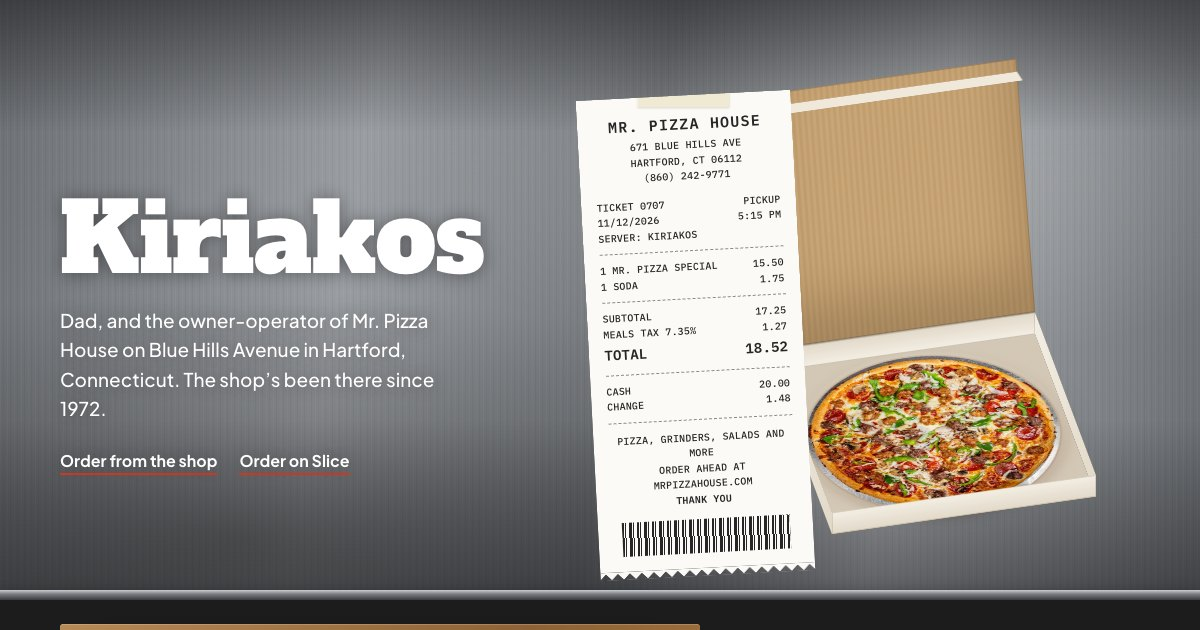
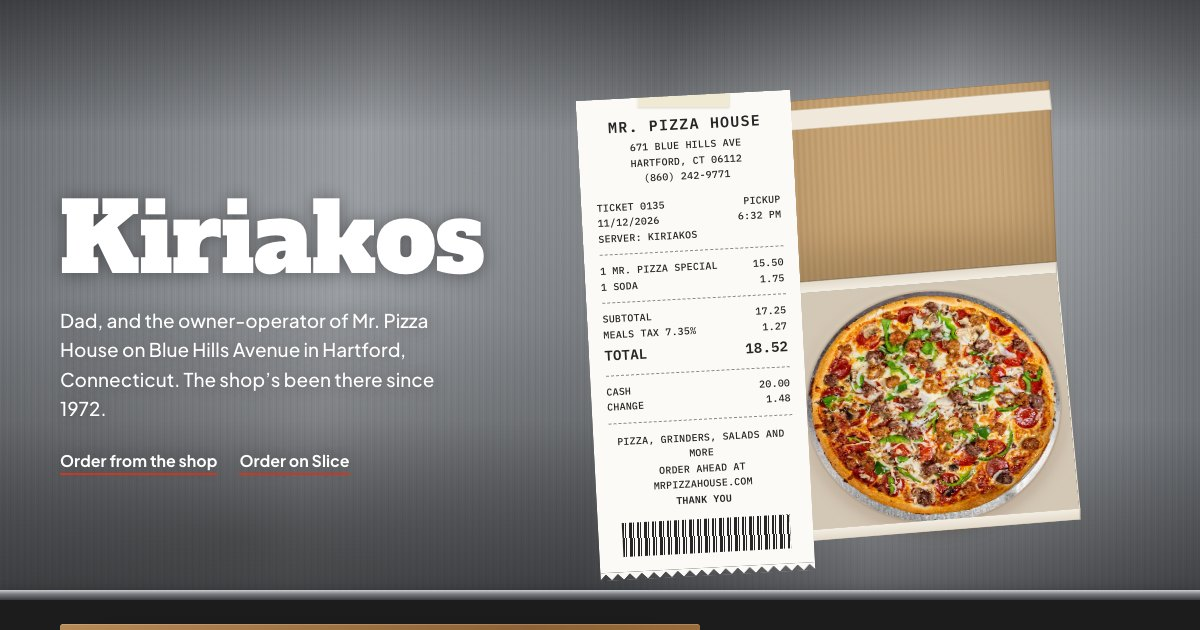
Kiriakos: the open box tips toward you, so the pizza reads the right way up

Changed region(s): [[0.6475, 0.0905, 0.925, 0.8746], [0.5242, 0.3016, 0.555, 0.3317]]

diff --git a/kiriakos/index.html b/kiriakos/index.html
@@ -12,16 +12,16 @@
   <meta property="og:description" content="Dad, and the owner-operator of Mr. Pizza House in Hartford, Connecticut." />
   <meta property="og:type" content="website" />
   <meta property="og:url" content="https://christoforakis.com/kiriakos/" />
-  <meta property="og:image" content="https://christoforakis.com/assets/og/kiriakos.jpg?v=20261114" />
+  <meta property="og:image" content="https://christoforakis.com/assets/og/kiriakos.jpg?v=20261115" />
   <meta property="og:image:width" content="1200" />
   <meta property="og:image:height" content="630" />
   <meta name="twitter:card" content="summary_large_image" />
   <link rel="preconnect" href="https://fonts.googleapis.com" />
   <link rel="preconnect" href="https://fonts.gstatic.com" crossorigin />
   <link href="https://fonts.googleapis.com/css2?family=Alfa+Slab+One&amp;family=Archivo+Narrow:wght@500;600;700&amp;family=IBM+Plex+Mono:wght@400;500;600&amp;family=Plus+Jakarta+Sans:ital,wght@0,400..800;1,400..600&amp;display=swap" rel="stylesheet" />
-  <link rel="stylesheet" href="/assets/css/islands.css?v=20261114" />
-  <script src="/assets/js/islands.js?v=20261114" defer></script>
-  <script type="module" src="/assets/js/kiriakos.js?v=20261114"></script>
+  <link rel="stylesheet" href="/assets/css/islands.css?v=20261115" />
+  <script src="/assets/js/islands.js?v=20261115" defer></script>
+  <script type="module" src="/assets/js/kiriakos.js?v=20261115"></script>
   <style>
     :root { --page-bg: #2a2b2d; --page-ink: #f4efe6; --chrome-bg: rgba(30, 31, 33, 0.78); --red: #cf3a24; --slab: "Alfa Slab One", Rockwell, Georgia, serif; --mono: "IBM Plex Mono", ui-monospace, monospace; --peek: clamp(76px, 11vh, 118px); }
     body { background: #2a2b2d; }
@@ -67,7 +67,9 @@
     /* The box */
     .stage { position: relative; z-index: 2; display: flex; align-items: center; justify-content: center; height: 100%; perspective: 1700px; perspective-origin: 60% 0%; }
     .stage__box { position: relative; flex: 0 1 auto; display: grid; place-items: center; }
-    .box { --w: min(400px, 31vw, 43svh); --h: calc(var(--w) * 0.1); position: relative; width: var(--w); height: var(--w); transform-style: preserve-3d; transform: translateY(36%) rotateX(52deg) rotateZ(-13deg); cursor: pointer; }
+    .box { --w: min(400px, 31vw, 43svh); --h: calc(var(--w) * 0.1); position: relative; width: var(--w); height: var(--w); transform-style: preserve-3d; transform: translateY(36%) rotateX(52deg) rotateZ(-13deg); cursor: pointer; transition: transform 1.15s cubic-bezier(0.3, 1.12, 0.4, 1); }
+    /* opened, the box tips toward you, so you look down into it the way the pizza was photographed */
+    .box.is-open { transform: translateY(26%) rotateX(24deg) rotateZ(-5deg); }
     .box * { transform-style: preserve-3d; }
     .box__shadow { position: absolute; inset: -4%; transform: translateZ(-1px); background: radial-gradient(closest-side, rgba(0, 0, 0, 0.55), transparent); filter: blur(14px); }
     .box__floor { position: absolute; inset: 0; background: #e9e1d2; }
@@ -142,8 +144,10 @@
     @media (max-width: 900px), (max-aspect-ratio: 1/1) {
       .counter { height: auto; min-height: 0; grid-template-columns: 1fr; padding-top: 96px; padding-bottom: 48px; gap: 10px; }
       .stage { flex-direction: column-reverse; height: auto; gap: 8px; }
-      .stage__box { height: min(46svh, 400px); width: 100%; margin-top: -24px; }
+      .stage { perspective-origin: 50% 20%; }
+      .stage__box { height: min(62svh, 520px); width: 100%; margin-top: -24px; }
       .box { --w: min(400px, 70vw, 40svh); }
+      .box.is-open { transform: translateY(40%) rotateX(32deg) rotateZ(-4deg) scale(0.74); --open: 100deg; }
       .ticket { margin: 0 auto; font-size: 12px; transform: rotate(-2deg); }
       .menu { padding-top: 12vh; }
       .menu__inner > div:last-child { padding-top: 0; }
@@ -155,7 +159,7 @@
 <body>
   <a class="skip-link" href="#main">Skip to content</a>
   <div class="isl-chrome" data-isl-chrome></div>
-  <noscript><p style="padding: 90px 24px 0"><a href="/">Home</a> · <a href="/updates/">Updates</a> · <a href="/oksana/#notebook">Oksana’s notebook</a></p></noscript>
+  <noscript><p style="padding: 90px 24px 0"><a href="/">Home</a> · <a href="/oksana/#notebook">Oksana’s notebook</a></p></noscript>
 
   <main id="main">
     <header class="counter">

diff --git a/assets/js/kiriakos.js b/assets/js/kiriakos.js
@@ -1,5 +1,5 @@
 // Kiriakos: a box on the counter that opens with a little steam, and a letterboard menu.
-import { reducedMotion, seeded } from "./gl.js";
+import { reducedMotion, seeded } from "./gl.js?v=20261115";
 
 const box = document.querySelector("[data-box]");
 const steamCanvas = document.querySelector("[data-steam]");
